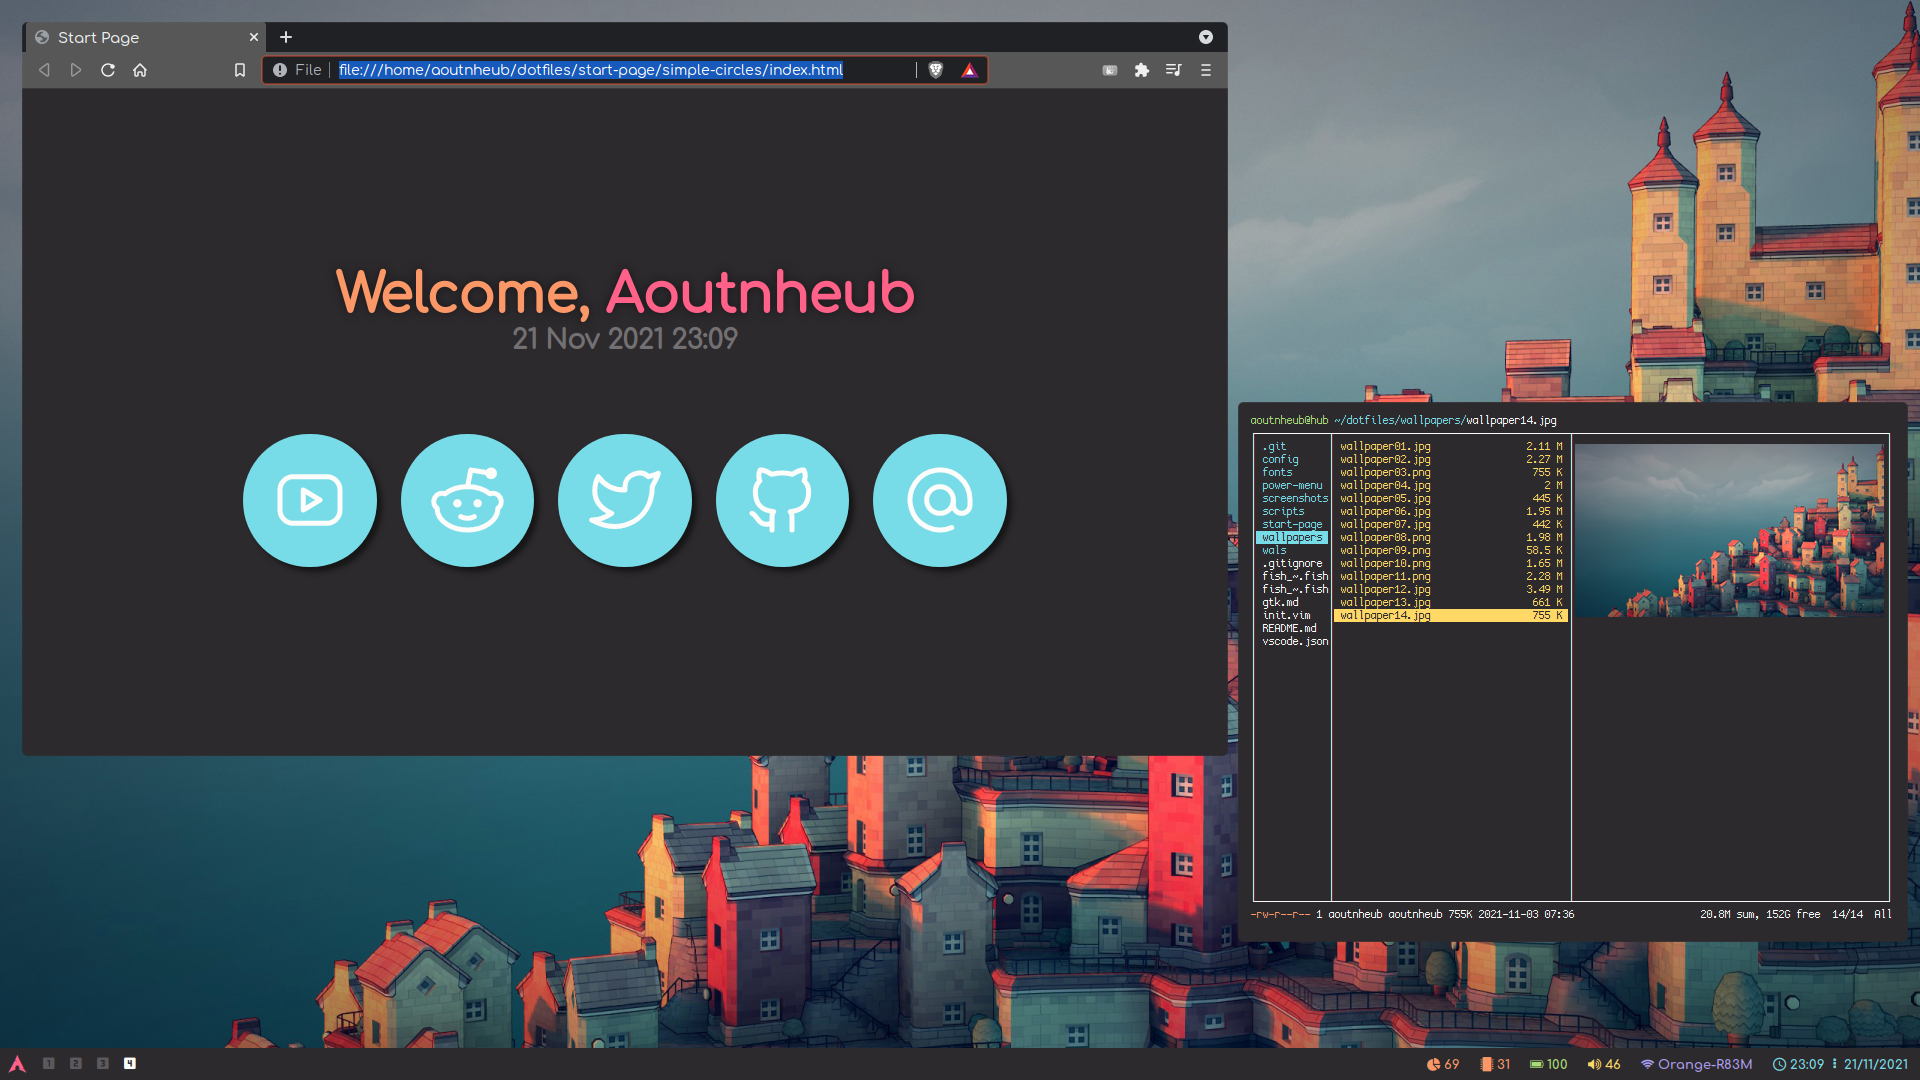
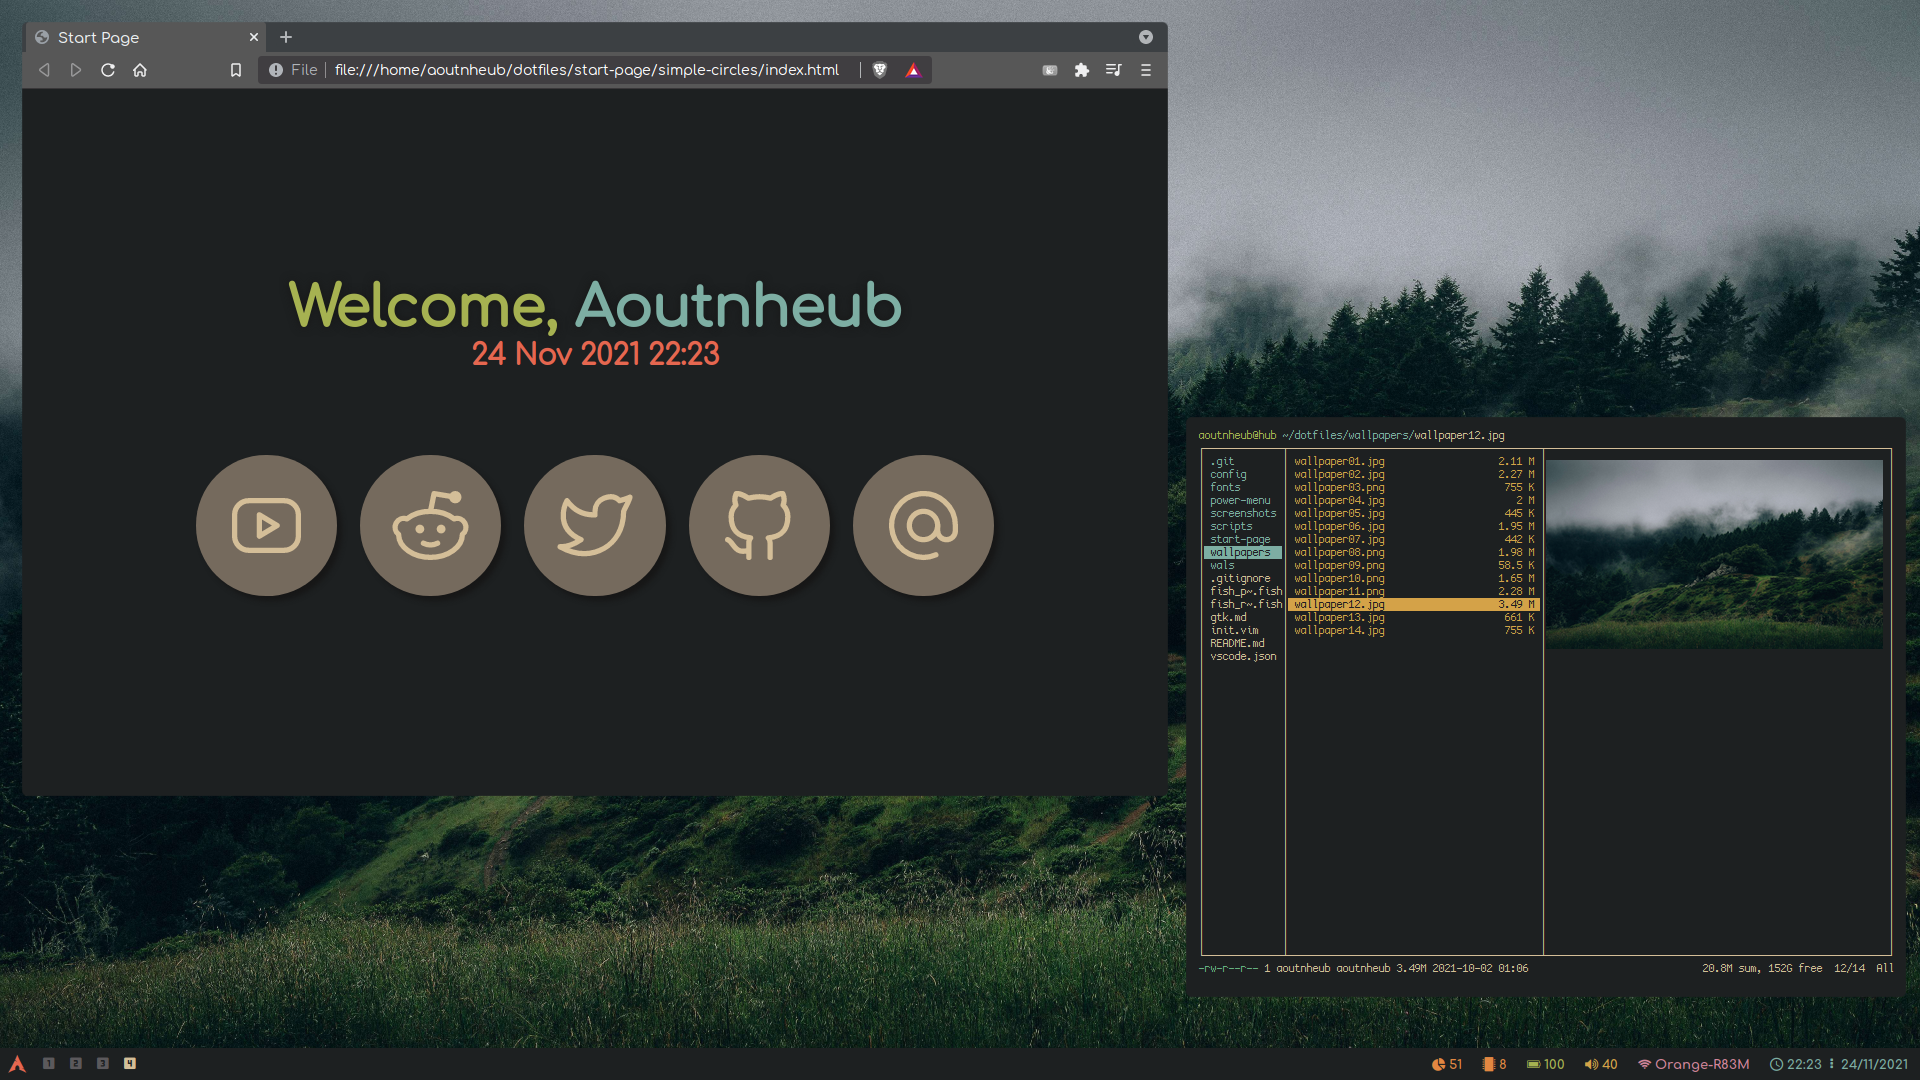
updated screenshots

diff --git a/README.md b/README.md
@@ -12,6 +12,6 @@
   - Cozette
   - Comfortaa
 
-# Screenshots [Outdated]
+# Screenshots
 ![Screenshots](screenshots/screenshot1.png)
 ![Screenshots](screenshots/screenshot2.png)
